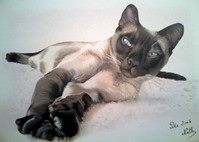
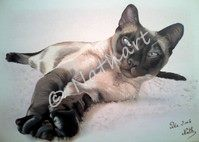
Filigrane (c) Nathart en diagonale sur toutes les images (outil d'optimisation)

Changed region(s): [[0.3618, 0.2254, 0.7538, 0.6479], [0.2412, 0.6197, 0.3317, 0.7606]]

diff --git a/README.md b/README.md
@@ -85,6 +85,7 @@ Mesures en place (aucune ne peut être absolue : tout ce qu'un navigateur affich
 - **Images et vidéos** : clic droit, appui long, glisser-déposer et bouton « Télécharger » du lecteur vidéo bloqués ; images masquées à l'impression.
 - **Robots d'IA** : `robots.txt` interdit les principaux robots d'entraînement et de collecte (GPTBot, ClaudeBot, CCBot, Google-Extended, PerplexityBot, etc.) et l'en-tête `noai, noimageai` demande de ne pas utiliser images et textes.
 - **Qualité des images** : 1800 px maximum pour les toiles, 1000 px pour le cube et l'anneau, jamais les originaux.
+- **Filigrane** : « © Nathart » est incrusté en diagonale au centre de chaque image (blanc à environ 40 % d'opacité, avec un fin contour sombre pour rester lisible sur fond clair comme sombre). Il est ajouté automatiquement par les trois outils `Optimiser-…bat` : les images déposées directement dans les dossiers `media/photos/…` sans passer par l'outil n'en ont pas. Réglages dans `outils/optimiser-photos.ps1` : `$FiligraneOpacite` (0 à 255) et `$FiligraneLargeur` (part de la diagonale de l'image). Pour une image sans filigrane : option `-SansFiligrane`. Les originaux ne sont jamais modifiés. La vidéo n'a pas de filigrane (à ajouter dans Shotcut).
 - **Mentions** : © Nathart et clause de propriété intellectuelle dans les mentions légales.
 
-Limites : une capture d'écran, les outils de développement du navigateur ou la désactivation de JavaScript contournent ces blocages. Un filigrane discret (« © Nathart » incrusté dans les images) est la seule protection qui suive l'image après copie ; il peut être ajouté à l'outil `Optimiser-photos.bat` si besoin.
+Limites : une capture d'écran, les outils de développement du navigateur ou la désactivation de JavaScript contournent les blocages du texte et des clics. Le filigrane est la seule protection qui suive l'image une fois copiée.
